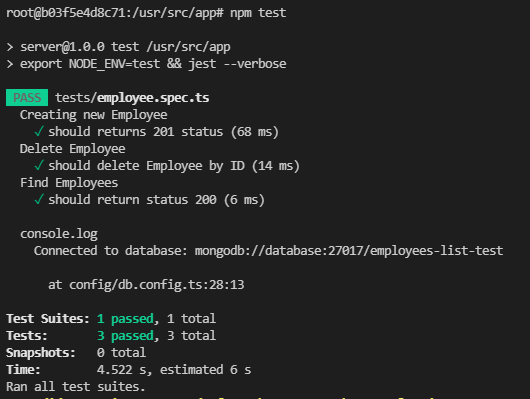
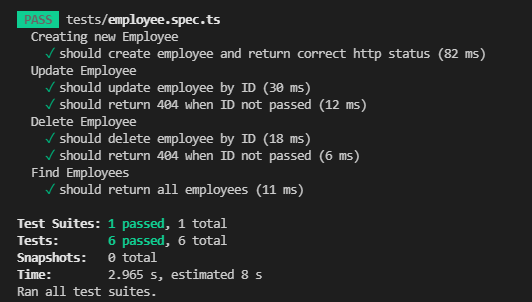
tests(api): increase the test coverage

Changed region(s): [[0.0, 0.0, 0.966, 0.6556], [0.0, 0.6854, 0.5132, 1.0]]

diff --git a/server/tests/employee.spec.ts b/server/tests/employee.spec.ts
@@ -7,26 +7,66 @@ const COLLECTION = '/employees';
 const EMPLOYEE = EMPLOYEES[0];
 
 describe('Creating new Employee', () => {
-  it('should returns 201 status', async () => {
+  it('should create employee and return correct http status', async () => {
     await request(app)
       .post(COLLECTION)
       .send(EMPLOYEE)
-      .expect(201);
+      .expect(201)
+      .then(() => {
+        request(app)
+          .get(COLLECTION)
+          .then(result => {
+            return expect(result.body?.length).toBeTruthy();
+          });
+      });
+  });
+});
+
+describe('Update Employee', () => {
+  it('should update employee by ID', async () => {
+    await findOne().then((employee: IEmployee) => {
+      employee.name = `${employee.name} updated`;
+      request(app)
+        .put(COLLECTION)
+        .send(employee)
+        .expect(200)
+        .then(() => {
+          request(app)
+          .get(COLLECTION)
+          .then(result => {
+            const updated = result.body.find(e => e.id === employee.id);
+            return expect(updated.name).toBe(employee.name);
+          });
+        });
+    });
+  });
+
+  it('should return 404 when ID not passed', async () => {    
+    await request(app)
+      .put(COLLECTION)
+      .send()
+      .expect(404);
   });
 });
 
 describe('Delete Employee', () => {
-  it('should delete Employee by ID', async () => {
+  it('should delete employee by ID', async () => {
     await findOne().then((employee: IEmployee) => {
       request(app)
         .delete(`${COLLECTION}/${employee.id}`)
         .expect(204);
     });
   });
+
+  it('should return 404 when ID not passed', async () => {    
+    await request(app)
+      .delete(COLLECTION)
+      .expect(404);
+  });
 });
 
 describe('Find Employees', () => {
-  it('should return status 200', async () => {
+  it('should return all employees', async () => {
     await request(app)
       .get(COLLECTION)
       .expect(200);

diff --git a/server/employee/employee-router.ts b/server/employee/employee-router.ts
@@ -18,6 +18,9 @@ router.post('/', async (req: Request, res: Response): Promise<void> => {
 
 router.put('/', async (req: Request, res: Response): Promise<void> => {
   employeeController.update(req.body).then(data => {
+    if (data.nModified === 0) {
+      return res.status(404).json(data);
+    }    
     return res.json(data);
   });
 });

diff --git a/README.md b/README.md
@@ -1,6 +1,9 @@
 # Employees List
 Mean stack application to manage employees with docker containers..
 
+### Preview
+- If you wish to have a quick look to the app design or test results, please open `preview` folder.
+
 ### Clone the repo
 ```bash
 $ git clone https://github.com/rafaelbenetti/employees-list
@@ -46,7 +49,7 @@ $ npm test
   - Mongodb
 
 ## Next steps
-- Add `ngxs` store management on UI.
-- Add services workers for caching static data (icons, fonts, etc).
 - Create roles management (ADMIN, EMPLOYEE).
 - Create history for the employees list.
+- Add services workers for caching static data (icons, fonts, etc).
+- Increase API Tests
